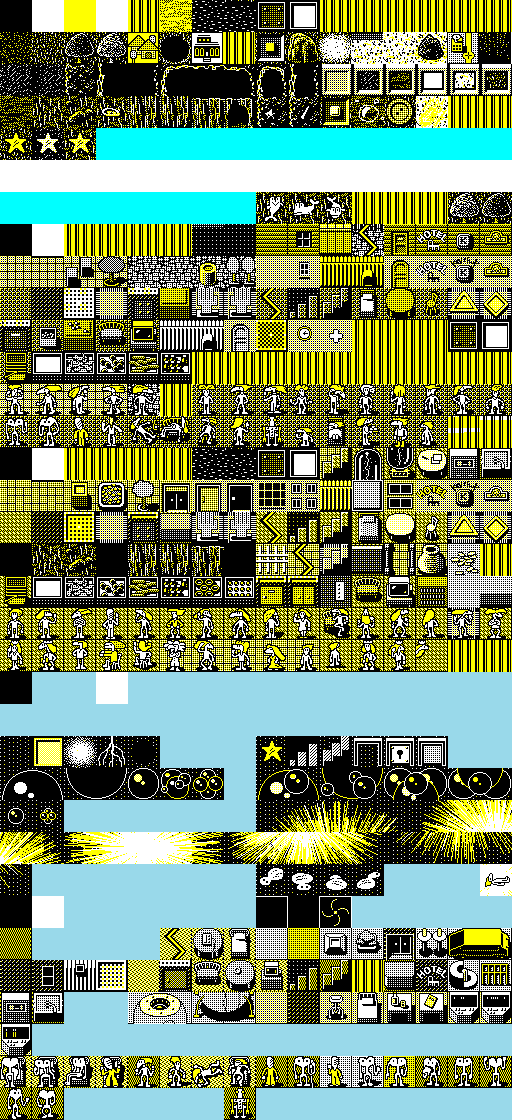
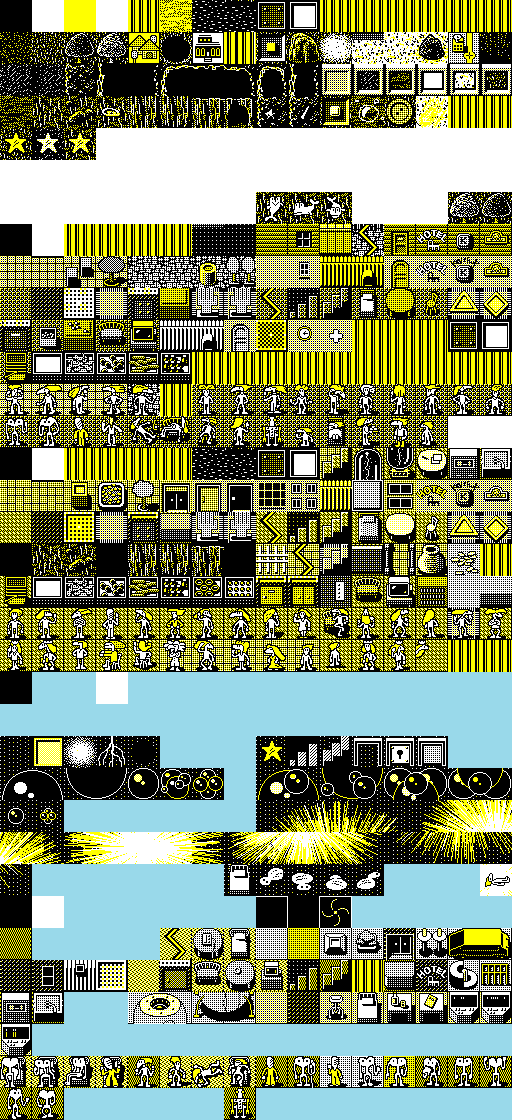
feature: DP関連(敵生息地・クリア条件・ベッド化イベント・鍵なし対応), 北湖周辺(チャトフィッシュ・ヒトデスパイス・噴出潜り対応), bugfix: ルチュ湖ヒトデ, タマオ博士, グラフィック崩れ

diff --git a/makemap.js b/makemap.js
@@ -239,14 +239,20 @@ Map.itembox = function(replacer, item_id)
 {
     let id = item_id ||
         (ch.isdone("loop") ? (16 + GetRand(9)) : [16,17,18,19,21,22,24][GetRand(7)]);
-    let name = id < 16 ? Items.spec(id).name : "呪文書";
+    let name = id < 0 ? "スパイス" : (id < 16 ? Items.spec(id).name : "呪文書");
     let seq = [
 	{t:"ヒトデ型の箱を開けると、中から\n" + name + "が出てきた。拾いますか?",
 	 confirm:true},
 	{func:
          () => {
-	     if (!Shojihin.add([id])) {
-		 return TextBar("荷物がいっぱいで拾えない。");
+             if (id < 0) {
+                 let spice = GetRand(200);
+                 spice += (ch.isdone("myhome") || (1000 < ch.spice)) ? 100 : (1100 - ch.spice);
+                 name = spice + name;
+                 ch.spice += spice;
+                 Draw.status();
+             } else if (!Shojihin.add([id])) {
+                 return TextBar("荷物がいっぱいで拾えない。");
 	     }
 	     TextBar(name + "を拾った。");
 	     Map.replace(replacer);
@@ -394,6 +400,7 @@ const event_outmap = () => {
     ret.across = [];
     ret.retalk = [];
     ret.enemy = true;
+    ret.base = 0x99;
     ret.make_bed = () => {};
 
     let footlist = [
@@ -425,7 +432,6 @@ const event_outmap = () => {
         {sym:0x1c, loc:[43,58], onstep: () => {
             Draw.sequence([
                 "\v飲み込まれた。",
-                //Todo: (DP転落イベント)
                 () => { 
                     $("#gamedisp").css("background", "black");
 	            $("#text").show();
@@ -435,6 +441,7 @@ const event_outmap = () => {
                 },
                 "ド \t リ \t ー \t ム \t ポ \t イ \t ン \t ト。",
                 "あいたたたたた。\n\t誰だい人のアタマを踏んづけるのは。",
+                "私をベッドか何かと勘違いしているのかね。",
                 () => {
 	            $("#gamedisp").css("background", "");
                     Draw.textbox(true);
@@ -457,7 +464,7 @@ const event_outmap = () => {
         }},
         // 水流
         {loc:[91,72], onstep: () => {
-            TextBar("激しい水流に巻き込まれた。");
+            TextBar("激しい水流に噴き上げられた。");
             ch.record_jump();
             jwait(() => {
                 if (ch.lostkey.indexOf("+esc") != -1) return GameOver();
@@ -466,6 +473,7 @@ const event_outmap = () => {
             });
         }},
         {loc:[60,73], onstep: () => {
+            TextBar("激しい水流に巻き込まれた。");
             ch.record_jump({});
             jwait(() => { Map.jump({sym:0x30, loc:[97, 71], z: 5}); wandering(); });
         }}, 
@@ -529,9 +537,9 @@ const event_outmap = () => {
         }},
         
         // チャトフィッシュとチャット
-        {sym: 0xea, onspoken: () => { Dialog("クム クム クム"); }},
-        {sym: 0xe9, onspoken: () => { Dialog("異変の時にみんなで//エスケープしてきたんだよ。"); }},
-        {sym: 0xe8, onspoken: () => { Dialog("そこの村の人はみんな避難しちゃったみたい。"); }},
+        //{sym: 0xea, talk:["クム クム クム"]},
+        //{sym: 0xe9, talk:["異変の時にみんなで\nエスケープしてきたんだよ。"]},
+        //{sym: 0xe8, talk:["そこの村の人はみんな避難しちゃったみたい。"]},
 
         //拾得イベント
         {sym:0xba, loc:[39,93], onspoken: () => Keyboard.pick("SHIFT", 0x11) },
@@ -545,7 +553,8 @@ const event_outmap = () => {
         {sym:0xc0, onspoken: () => { Map.itembox(0x11); }},
         {sym:0xc1, loc:[88,88], onspoken: () => { Map.itembox(0x20, 8); }},
         {sym:0xc1, loc:[77,90], onspoken: () => { Map.itembox(0x20, 4); }},
-        {sym:0xc2, onspoken: () => { Map.itembox(0x05, 1); }},
+        {sym:0xc2, loc:[112,28], onspoken: () => { Map.itembox(0x31, 1); }},
+        {sym:0xc2, onspoken: () => { Map.itembox(0x05, -1); }},
     ];
 
     // ch記録によるマップの書き換え
@@ -1067,9 +1076,10 @@ const event_town4map = () => {
     let footlist = [
         // 扉
         {sym:0x15, loc:[9,23],  jump:{sym:1,stepin:1,loc:[150/2,53]}},      // tax
-        {sym:0x16, loc:[16,24], jump:{sym:1,stepin:1,loc:[58,123]}},        // market
-        {sym:0x16, loc:[14,20], jump:{sym:1,stepin:1,loc:[(233-5)/2,100]}}, // home
-        {sym:0x17, loc:[31,24], jump:{sym:1,stepin:1,loc:[(233-5)/2,71]}},  // labo
+        {sym:0x16, loc:[16,24], jump:{sym:1,stepin:1,loc:[58,123]}},  // market
+        {sym:0x16, loc:[14,20], jump:{sym:1,stepin:1,loc:[114,100]}}, // home
+        {loc: [114,100], jump:{loc:[14,21]}, onstep: () => ch.isdone("myhome") ? true : ch.remand() },
+        {sym:0x17, loc:[31,24], jump:{sym:1,stepin:1,loc:[114,71]}},  // labo
         {"sym":21,"loc":[14,13],jump:{sym:1,stepin:1,loc:[69,97]},},  //124bil
         {"sym":23,"loc":[25,23],jump:{sym:1,stepin:1,loc:[52,94]},},  //hotel
         {"sym":22,"loc":[32,13],jump:{sym:1,stepin:1,loc:[108,123]}}, //gym
@@ -1285,7 +1295,7 @@ const event_town4map = () => {
                 if (Items.has("memo")) return talks[13];
                 return (Items.add(["memo"])) ? talks[12] : talks[15];
             }
-            return talks[15];
+            return talks[14];
         }},
         // 博士助手
         {loc:[15,66], branch: (talk) => ch.warp.length ? talk[1] : talk[0]},
@@ -1325,7 +1335,13 @@ const event_dreampoint = (map) => {
     ret.jumper = [1, 0x21, 0x29, 0x2a] // ワ㊦㊤
     ret.across = [];
     ret.enemy = true;
-    ret.make_bed = () => {};
+    ret.base = 0;
+    ret.make_bed = () => {
+        let sym = Map.symbol(ch.towhere());
+        if (sym < 0xe8 || 0xec <= sym) return false;
+        Map.replace(0x67);
+        return true;
+    };
 
     let footlist =  [
         {sym:0xb6, onstep: () => { GameOver("アブクに取り込まれてしまった。"); }},
@@ -1367,7 +1383,17 @@ const event_dreampoint = (map) => {
             let jumpto = {sym:0x2a, loc:[ch.x + (y < 120 ? 0 : 40), y % 120]};
             Draw.stair(jumpto, true);
         }},
-
+        {sym:0x67, onstep: () => { // ベッド
+            Draw.sequence([
+                {t:"ベッドに入りますか?", confirm:true},
+                () => { ch.sleep(); Map.replace(0x20, [ch.x,ch.y]); },
+                {wait: true},
+            ]);
+        }},
+        {sym:0x40, onstep: () => { // 踏める泡
+            Map.replace(0x20, [ch.x, ch.y]);
+            return true;
+        }},
     ].concat(Map.warps);
 
     ret.FootEvents = interact_footevents(footlist, ret.jumper);

diff --git a/enemy.js b/enemy.js
@@ -113,40 +113,44 @@ const inhabitation = `
 00000000000000000000000000000000:f
 `.split("\n").map(row=>row.split(":").shift()).filter(v=>v);
 
+const enemy_habitat = () => {
+    if (ch.map == 1) {
+        let stager = inhabitation[parseInt(ch.y/4)][parseInt(ch.x/4)];
+        if (stager == "*") return;
+        //(0)nADF(4)JKL(7);+(9)RYU(12)GQ(14)I@X(17)C/(19)VM7(22)10(24)-[*
+        return [[0,9], [7,14], [12,17], [14,21], [17,24], [19,27]][stager % 6];
+    }
+    let floor = 3 * parseInt(ch.x / 40) + parseInt(ch.y / 40);
+    if (floor < 6)
+        //(27)ひぼせかう(32)もおいり
+        return [[27,31], [27,32], [27,33], [29,34], [29,35], [29,36]][floor % 6];
+    return [0,0];
+};
+
 let Enemy = {};
 Enemy.make = (opt) => {
-    let stager = ch.map == 5 ? (parseInt(ch.x / 40) + 6) : inhabitation[parseInt(ch.y/4)][parseInt(ch.x/4)]; //3 * ((ch.x < 40) ? 0 : 1) + parseInt(ch.y / 40);
-    CLOG("enemy.stager=",stager);
-    if (stager=="*") return;
-    if (!opt || !opt.stage) opt = {stage: stager};
-    const stage = [0, 4, 7, 9, 12, 14, 17, 21, 24, 27, 32];
-    const stage1 = [9, 14, 17, 21, 24, 27, 32, enemylist.length, 0];
-    const stage0 = [0,  7, 12, 14, 17, 19, 27, 27, 0];
-    const from = stage0[opt.stage];
-    CLOG("enemy.id.range=", stage0[opt.stage], stage1[opt.stage]);
-    //(0)nADF(4)JKL;(7);+(9)RYU(12)GQ(14)I@X(17)C/(19)VM7(22)10(24)-[*(27)ひぼせかう(32)もおいり
-    const subset = enemylist.slice(stage0[opt.stage], stage1[opt.stage]);
+    if (!opt || !opt.inhabit) opt = {inhabit: enemy_habitat() };
+    if (!opt.inhabit) return;
+
+    const from = opt.inhabit[0];
+    CLOG("enemy.id.range=", opt.inhabit);
+    const subset = enemylist.slice(from, opt.inhabit[1]);
     const id = GetRand(subset.length) + from;
+
     let enemy = {};
-    Object.assign(enemy, enemylist[id]);
+    Object.assign(enemy, enemylist[id] || enemylist[0]);
     enemy.id = id + 1;
     enemy.exp += GetRand(enemy.exp / 2);
     enemy.spc += GetRand(enemy.spc / 2);
     enemy.penalty = GetRand(enemy.pena[2]) < enemy.pena[3] ? enemy.pena[0] : 0;
     if (enemy.penalty == 1) enemy.bite = GetRand(enemy.pena[4] || 0) + enemy.pena[5];
+
     enemy.drop = enemy.drop.map(v => {
         if (GetRand(v.rate)) return;
         if (0x10 == v.item) return 16 + GetRand(9);
         return v.item;
     }).filter(v => v);
 
-    let ITEM_C = {
-        0x01 : "g",0x02 : "m",0x03 : "c",
-        0x04 : "onigiri",0x05 : "tsukuda", 0x06 : "s",
-        0x07 : "pig", 0x08 : "cheese",0x09 : "air",
-        0x0a : "niboshi",0x0b : "nuts", 0x21 : "k",
-    };
-    //CLOG("enemy.drop=", enemy.drop);
     return enemy;
 };
 

diff --git a/encount.js b/encount.js
@@ -436,14 +436,19 @@ const OpenWall = function(opt)
 // 最地下
 const DreamPoint = function()
 {
-    let uchiowari = function(mistype, speed) {
+    const LEN = 6 * 44;
+    let uchiowari = function(mistype, sec) {
         $("#longscript").hide();
-	ch.dream++;
-	if (ch.dream < 3) return wandering();
-	return Ending();
+        let misrate = Math.round(100 * mistype / LEN);
+        let speed = (misrate > 20) ? 0 : Math.round(LEN * 600 / 5 / sec / 3 * ch.targetspeed);
+        if ((speed < ch.targetspeed * 10) || (20 < misrate)) return wandering();
+        ch.dream++;
+        let seq = Array(4).fill({func: () => $("#bgdam").toggle(), timer: 50});
+        if (3 <= ch.dream) seq.push(() => Ending(), {wait: true});
+        Draw.sequence(seq);
     };
     let battle = {};
-    battle.jumon = Spellcast.make({len: 6 * 44});
+    battle.jumon = Spellcast.make({len: LEN});
     battle.uchiowari = uchiowari;
     battle.type = "dream";
     $("#longscript").show();

diff --git a/dog.js b/dog.js
@@ -225,6 +225,7 @@ ch.diving = function(is_down)
     // kinen: 16.44 - 20.46 ==>  29.61 - 33.63
     let delta = (x, y, z) => {
 	if (m == 4) return {x:29-16, y:61-44};
+        if (x == 58 && y == 73) return;
         let is_rtyu = (x < 45 || 105 < x);
         let dx = (1 < z) ?  0 : (is_rtyu ? 80 : 39);
         let dy = (1 < z) ? 16 : (is_rtyu ? -67 : -72);
@@ -235,6 +236,8 @@ ch.diving = function(is_down)
         if (!is_waterfront(ch)) return kabe();
 
         let d = delta(ch.x, ch.y, ch.z + 1);
+        if (!d) return TextBar("水が噴き上げてくるので、潜れない。");
+
 	let to = {x:(ch.x + d.x), y:(ch.y + d.y)};
 	if ((m == 4) && (Map.kabe(to) || Map.symbol(to) == 1)) return kabe();
 	if (ch.z == 0) ch.record_jump({});

diff --git a/screen.js b/screen.js
@@ -40,6 +40,8 @@ Draw.map = function() {
             .css("left", ((k % IMGROW) * -IMGCELL) + "px")
             .css("top",  ((graph * 7 + parseInt(k / IMGROW)) * -IMGCELL) + "px");
     });
+    const inwater = (sym) => (sym == 5 || sym == 6 || sym == 7);
+    $("#me img").css("top", inwater(Map.symbol(ch)) ? "10px" : "0px");
 
     $("#map").css("background",
 		  ch.dark ? "black" :
@@ -53,7 +55,6 @@ Draw.me = function() {
     let n = ch.muki * 2 + (ch.fog.enable ? ch.fog.foot() : ((ch.x + ch.y) % 2));
     $("#me").show().children("img")
         .css("position", "relative")
-        .css("top", "0px")
         .css("left",  (n * -IMGCELL) + "px");
 };
 
